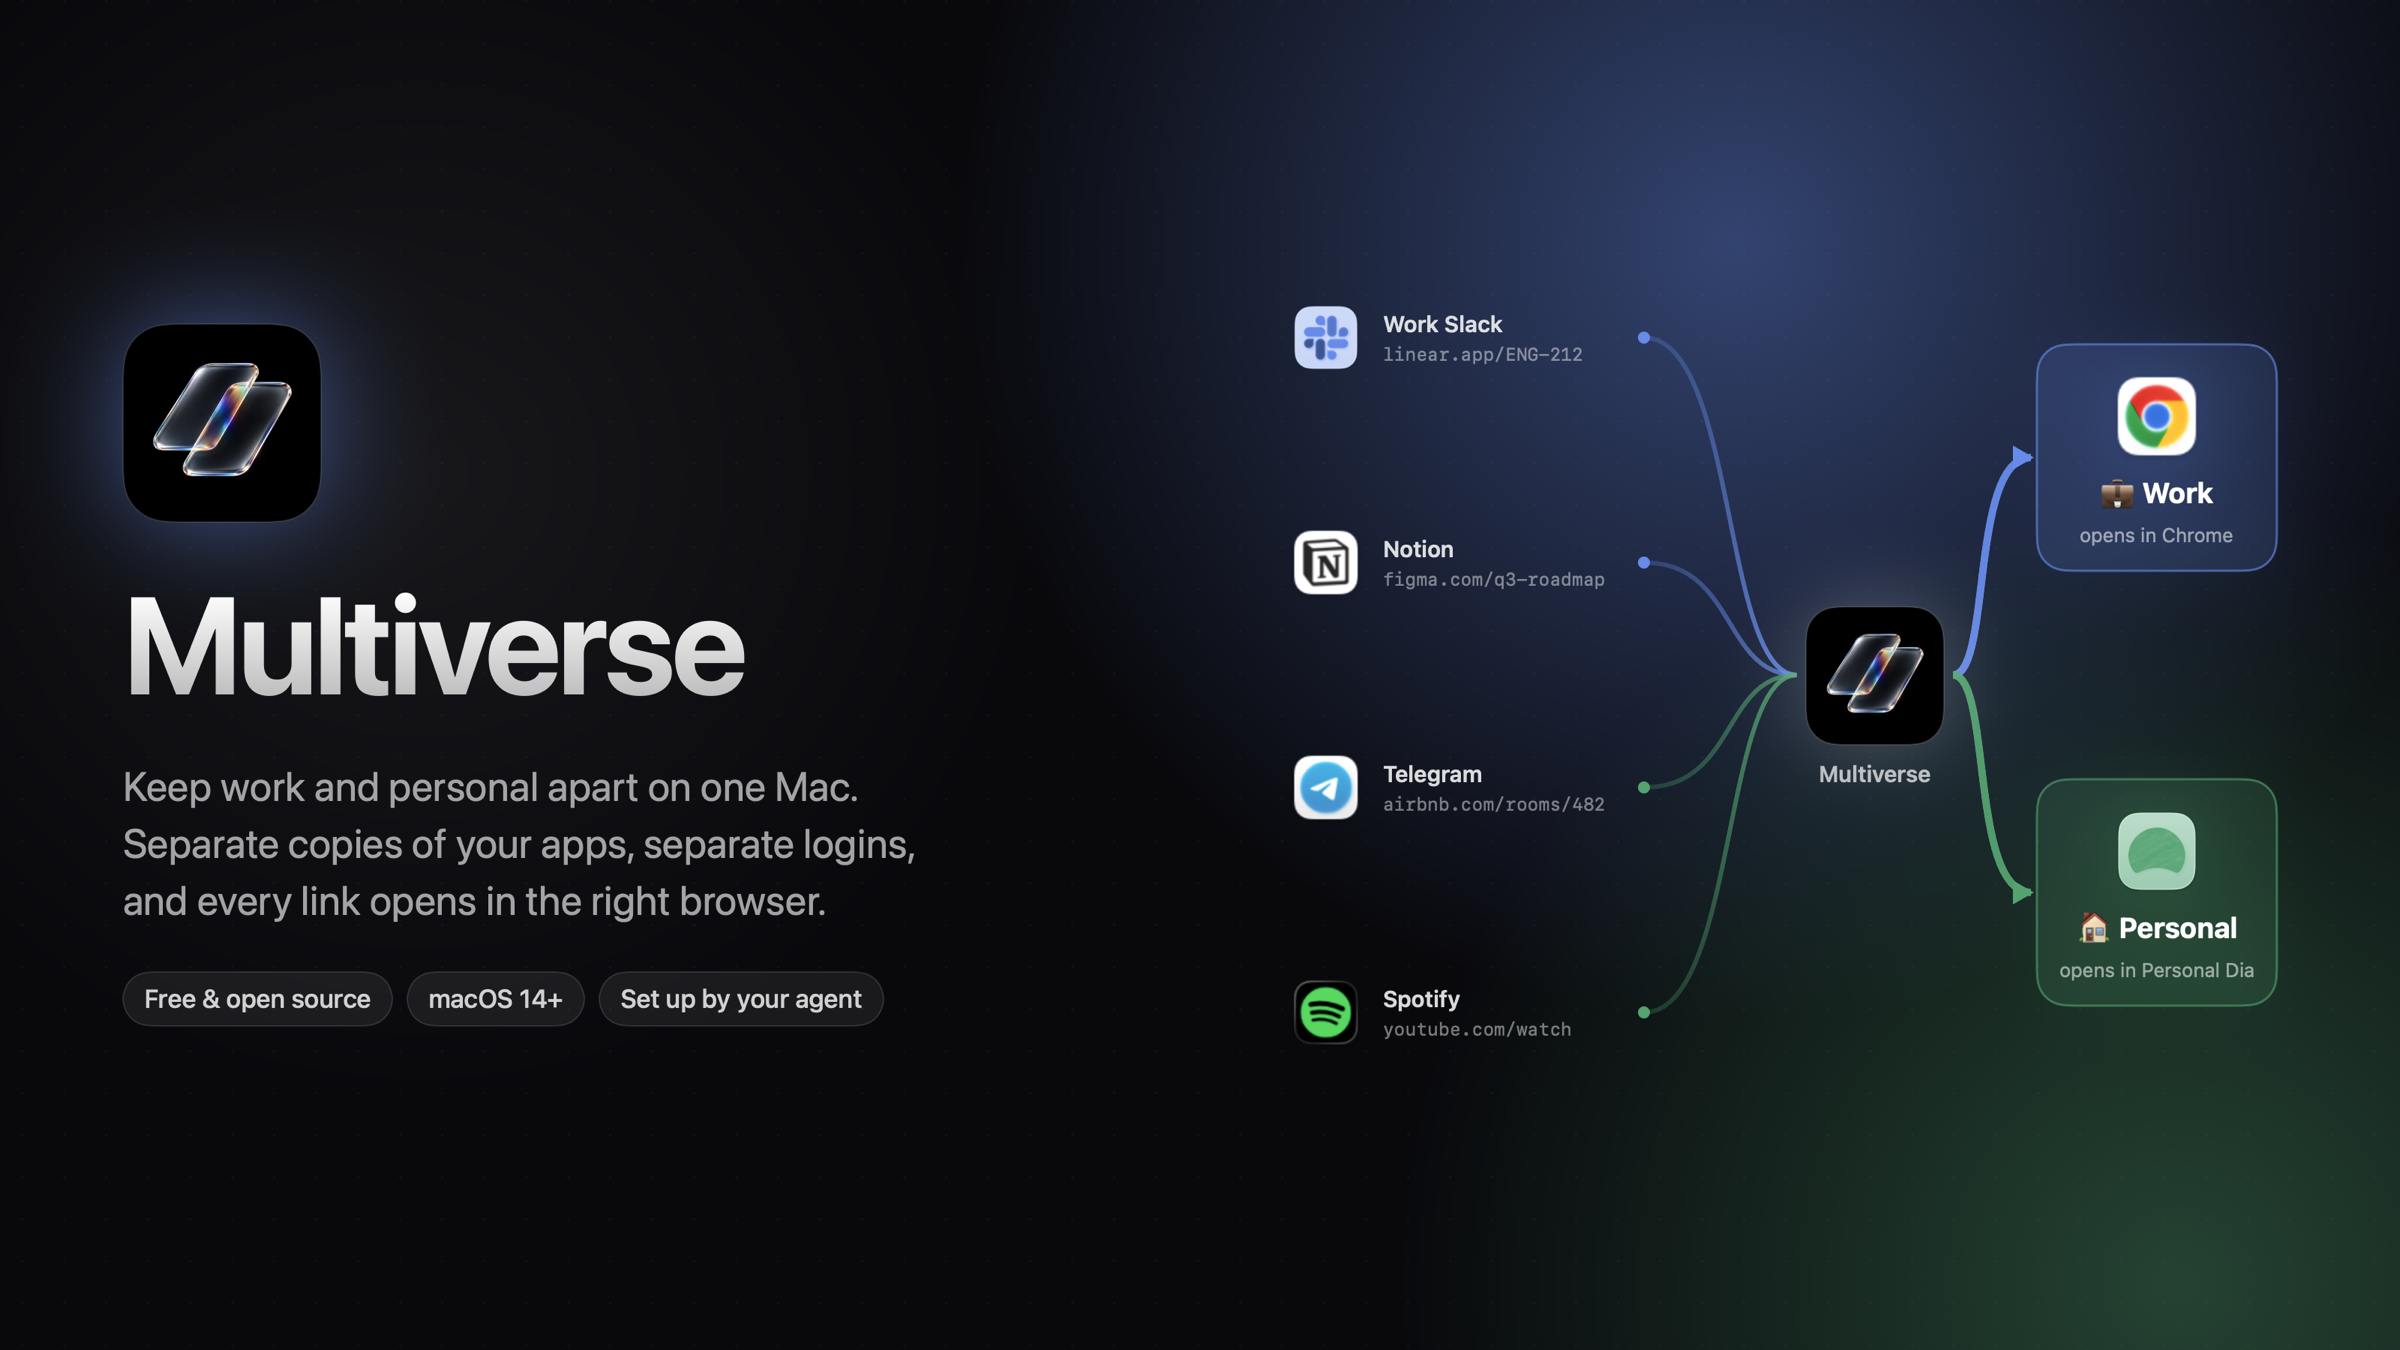
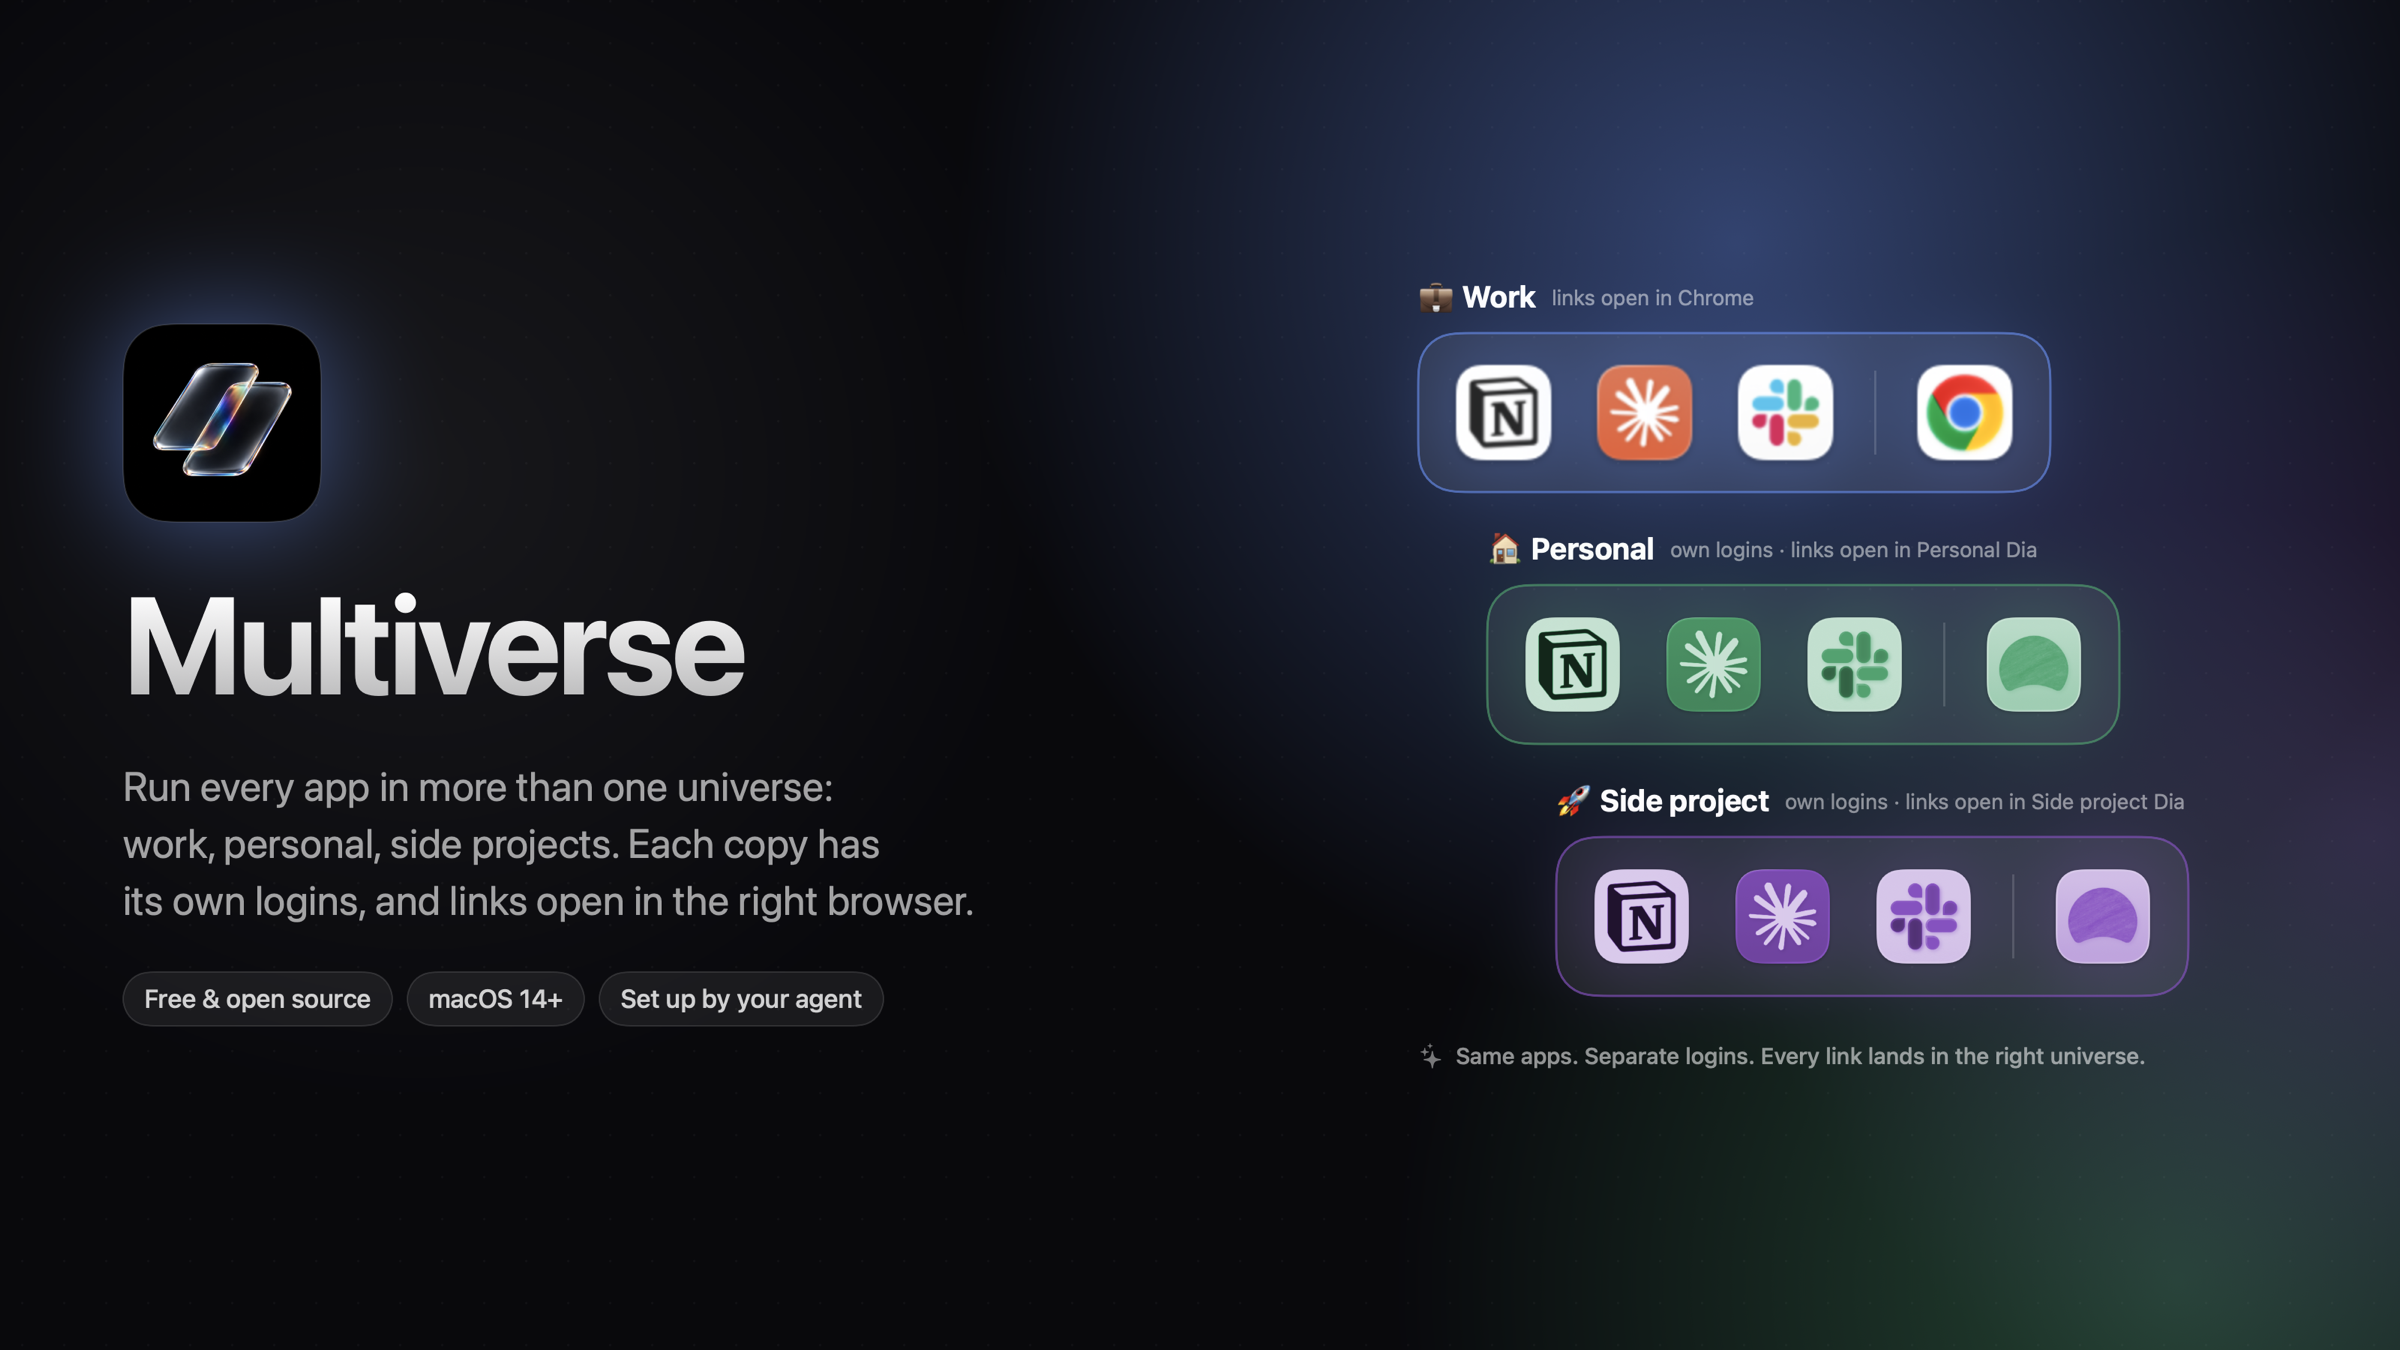
Launch image: the same apps in three universes

Changed region(s): [[0.5312, 0.1867, 1.0, 0.84], [0.0312, 0.56, 0.4062, 0.6844]]

diff --git a/tools/LaunchImage.swift b/tools/LaunchImage.swift
@@ -7,6 +7,8 @@ import SwiftUI
 private let work = Color(red: 0.36, green: 0.55, blue: 0.94)
 private let personal = Color(red: 0.19, green: 0.64, blue: 0.42)
 private let workNS = NSColor(red: 0.36, green: 0.55, blue: 0.94, alpha: 1)
+private let side = Color(red: 0.56, green: 0.31, blue: 0.78)
+private let sideNS = NSColor(red: 0.56, green: 0.31, blue: 0.78, alpha: 1)
 private let personalNS = NSColor(red: 0.19, green: 0.64, blue: 0.42, alpha: 1)
 
 private func icon(_ app: String, tint: NSColor? = nil) -> NSImage {
@@ -23,6 +25,7 @@ struct LaunchImage: View {
             // Two universes as two glows.
             RadialGradient(colors: [work.opacity(0.45), .clear], center: UnitPoint(x: 0.72, y: 0.18), startRadius: 0, endRadius: 520)
             RadialGradient(colors: [personal.opacity(0.38), .clear], center: UnitPoint(x: 0.9, y: 0.95), startRadius: 0, endRadius: 520)
+            RadialGradient(colors: [side.opacity(0.28), .clear], center: UnitPoint(x: 0.98, y: 0.62), startRadius: 0, endRadius: 420)
             RadialGradient(colors: [Color.white.opacity(0.06), .clear], center: UnitPoint(x: 0.18, y: 0.35), startRadius: 0, endRadius: 420)
             DotGrid().opacity(0.5)
 
@@ -37,7 +40,7 @@ struct LaunchImage: View {
                         .font(.system(size: 92, weight: .bold, design: .default))
                         .tracking(-2.5)
                         .foregroundStyle(LinearGradient(colors: [.white, .white.opacity(0.72)], startPoint: .top, endPoint: .bottom))
-                    Text("Keep work and personal apart on one Mac.\nSeparate copies of your apps, separate logins,\nand every link opens in the right browser.")
+                    Text("Run every app in more than one universe:\nwork, personal, side projects. Each copy has\nits own logins, and links open in the right browser.")
                         .font(.system(size: 27, weight: .regular))
                         .foregroundStyle(.white.opacity(0.62))
                         .lineSpacing(6)
@@ -51,7 +54,7 @@ struct LaunchImage: View {
                 .frame(width: 720, alignment: .leading)
 
                 // Right: links flowing from apps, through Multiverse, to each universe's browser
-                RoutingFlow(hub: appIcon)
+                UniverseDocks()
                     .frame(width: 660, height: 640)
             }
             .padding(.horizontal, 96)
@@ -71,6 +74,51 @@ private struct Pill: View {
             .padding(.horizontal, 14).padding(.vertical, 8)
             .background(Capsule().fill(.white.opacity(0.07)))
             .overlay(Capsule().stroke(.white.opacity(0.12)))
+    }
+}
+
+/// The same apps, once per universe: like three Docks from parallel versions of your Mac, offset
+/// like the panes in the Multiverse icon.
+private struct UniverseDocks: View {
+    struct Shelf { let title: String; let note: String; let color: Color; let tint: NSColor?; let browser: String }
+    private let shelves = [
+        Shelf(title: "💼 Work", note: "links open in Chrome", color: work, tint: nil, browser: "Google Chrome"),
+        Shelf(title: "🏠 Personal", note: "own logins · links open in Personal Dia", color: personal, tint: personalNS, browser: "Dia"),
+        Shelf(title: "🚀 Side project", note: "own logins · links open in Side project Dia", color: side, tint: sideNS, browser: "Dia"),
+    ]
+    private let apps = ["Notion", "Claude", "Slack"]
+
+    var body: some View {
+        VStack(alignment: .leading, spacing: 26) {
+            ForEach(Array(shelves.enumerated()), id: \.offset) { i, shelf in
+                VStack(alignment: .leading, spacing: 12) {
+                    HStack(spacing: 10) {
+                        Text(shelf.title).font(.system(size: 20, weight: .bold)).foregroundStyle(.white)
+                        Text(shelf.note).font(.system(size: 14)).foregroundStyle(.white.opacity(0.5))
+                    }
+                    HStack(spacing: 16) {
+                        ForEach(apps, id: \.self) { app in
+                            Image(nsImage: icon(app, tint: shelf.tint)).resizable().frame(width: 78, height: 78)
+                        }
+                        Rectangle().fill(.white.opacity(0.15)).frame(width: 1.5, height: 56).padding(.horizontal, 4)
+                        Image(nsImage: icon(shelf.browser, tint: shelf.browser == "Dia" ? shelf.tint : nil))
+                            .resizable().frame(width: 78, height: 78)
+                    }
+                    .padding(.horizontal, 18).padding(.vertical, 14)
+                    .background(RoundedRectangle(cornerRadius: 26, style: .continuous).fill(.white.opacity(0.07)))
+                    .overlay(RoundedRectangle(cornerRadius: 26, style: .continuous).stroke(shelf.color.opacity(0.65), lineWidth: 1.5))
+                    .shadow(color: shelf.color.opacity(0.45), radius: 30)
+                }
+                .offset(x: CGFloat(i) * 46)
+            }
+            HStack(spacing: 8) {
+                Image(systemName: "sparkles").foregroundStyle(.white.opacity(0.45))
+                Text("Same apps. Separate logins. Every link lands in the right universe.")
+                    .foregroundStyle(.white.opacity(0.55))
+            }
+            .font(.system(size: 15, weight: .medium))
+            .padding(.top, 4)
+        }
     }
 }
 
